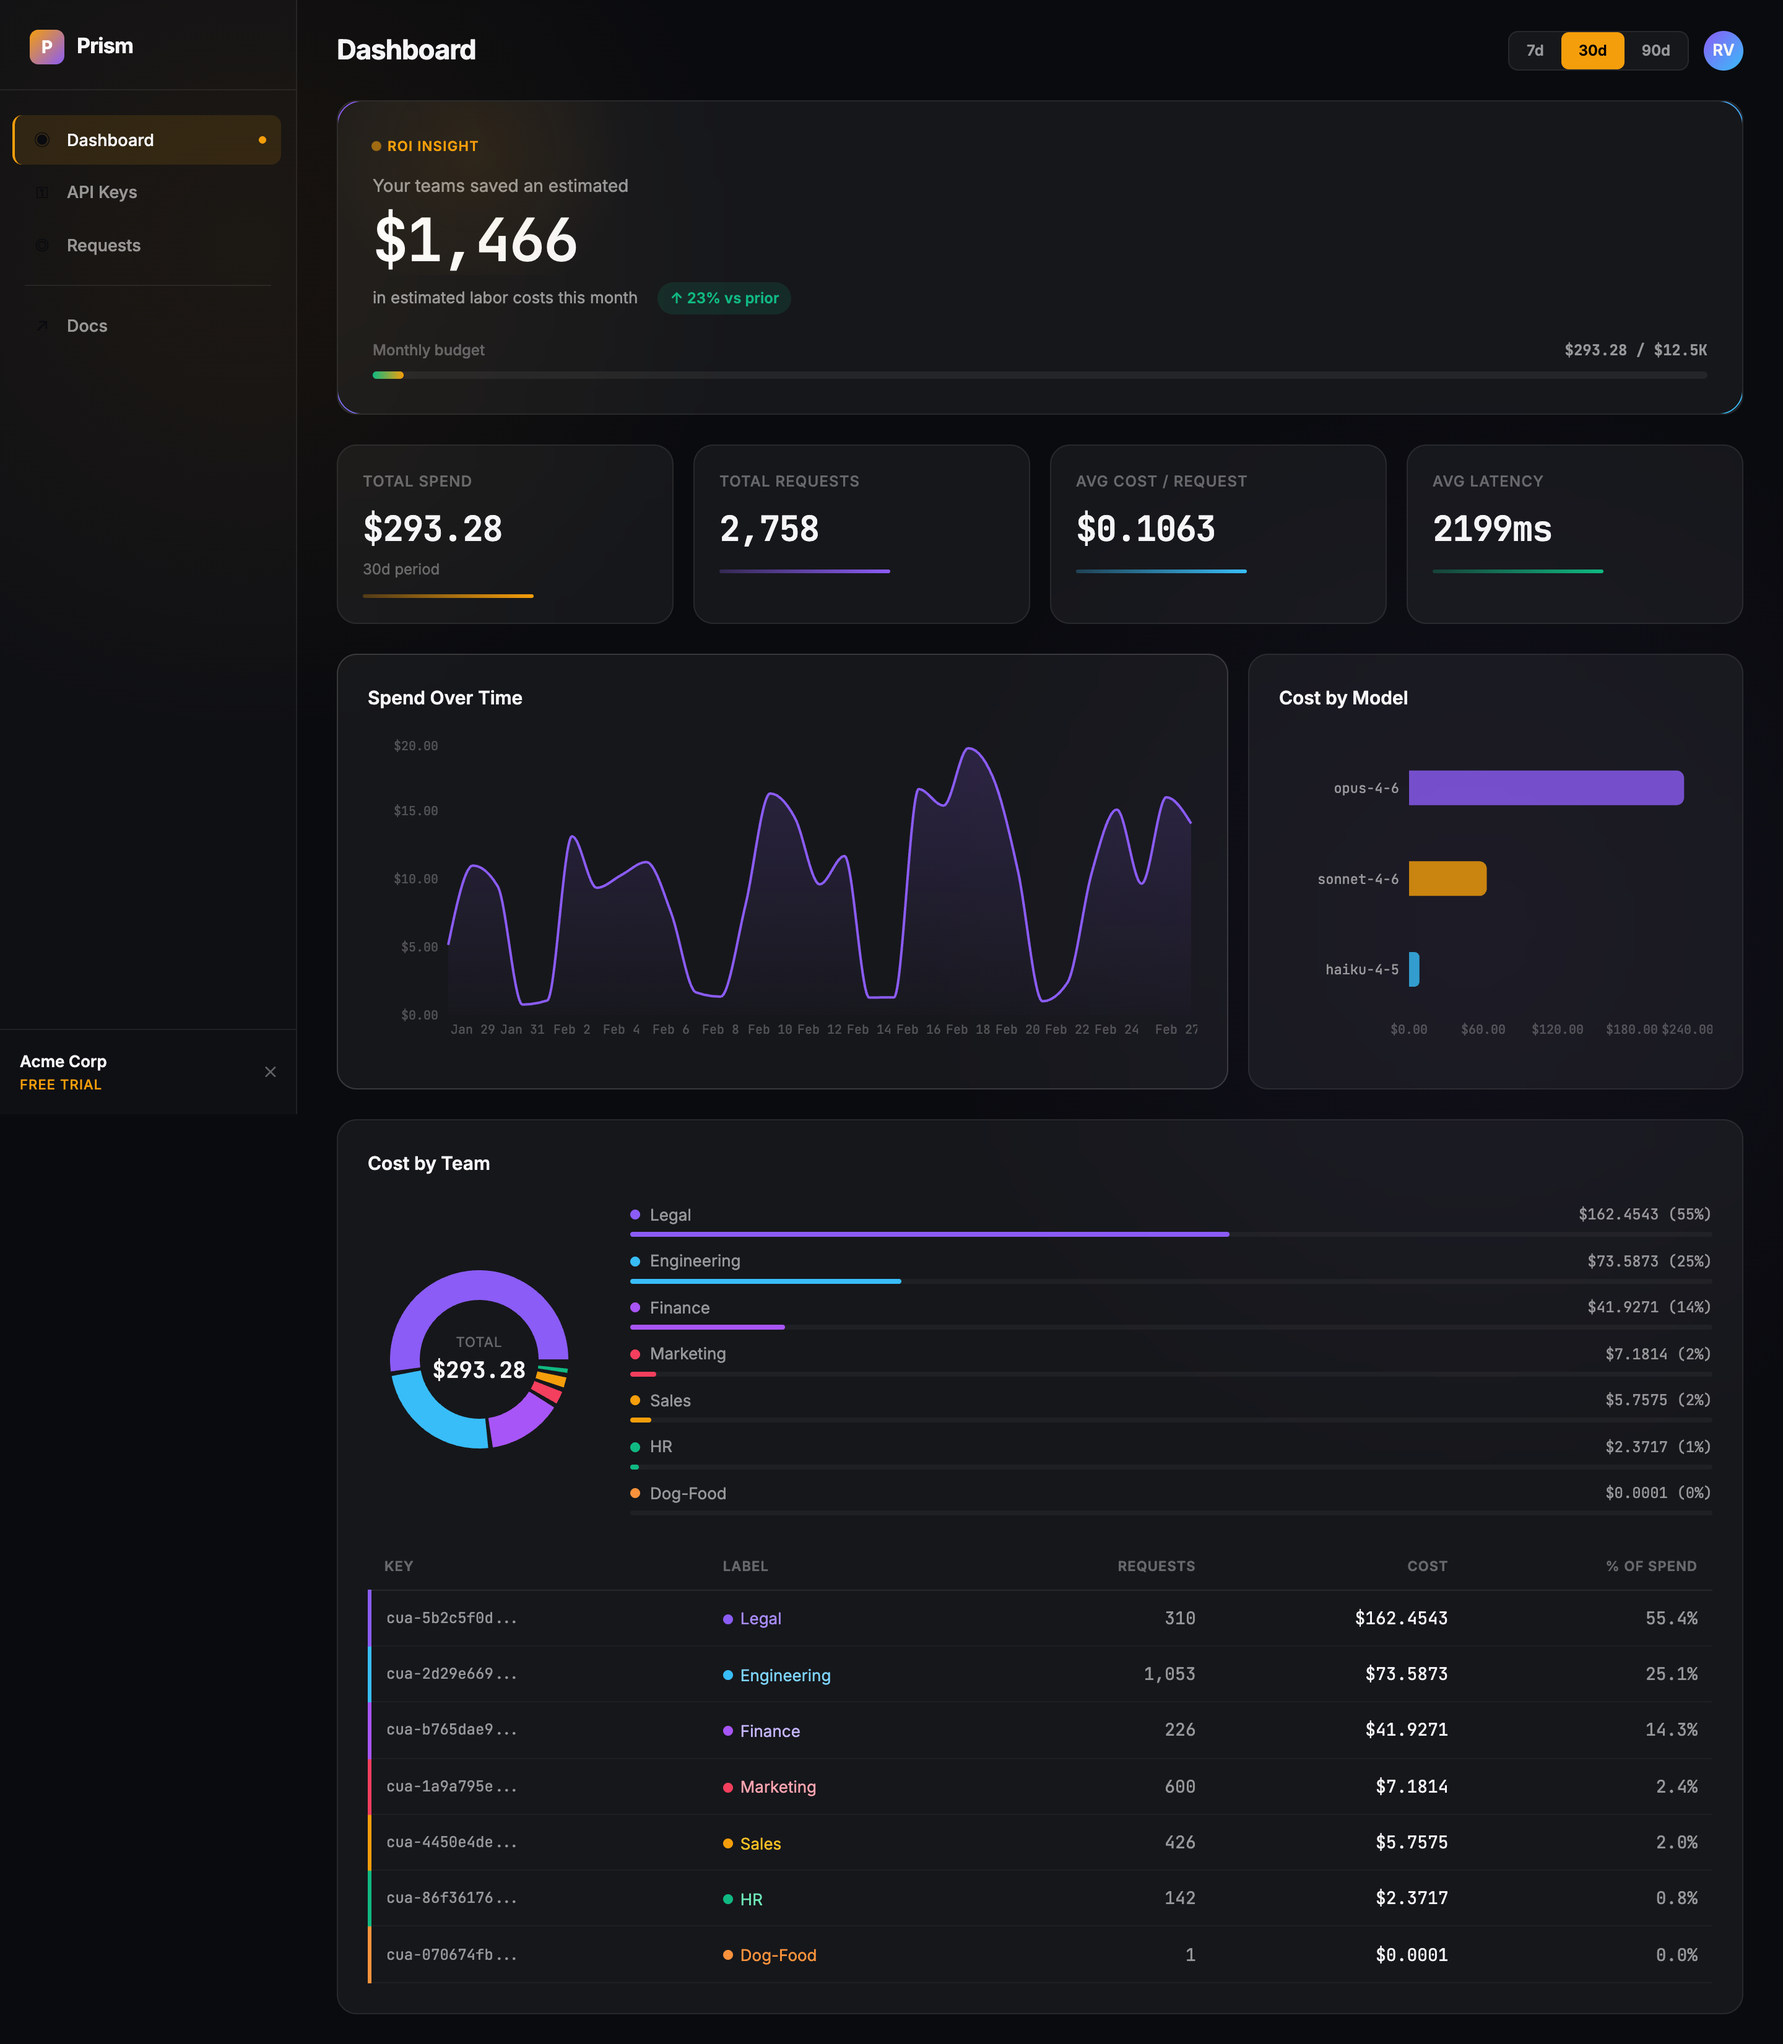
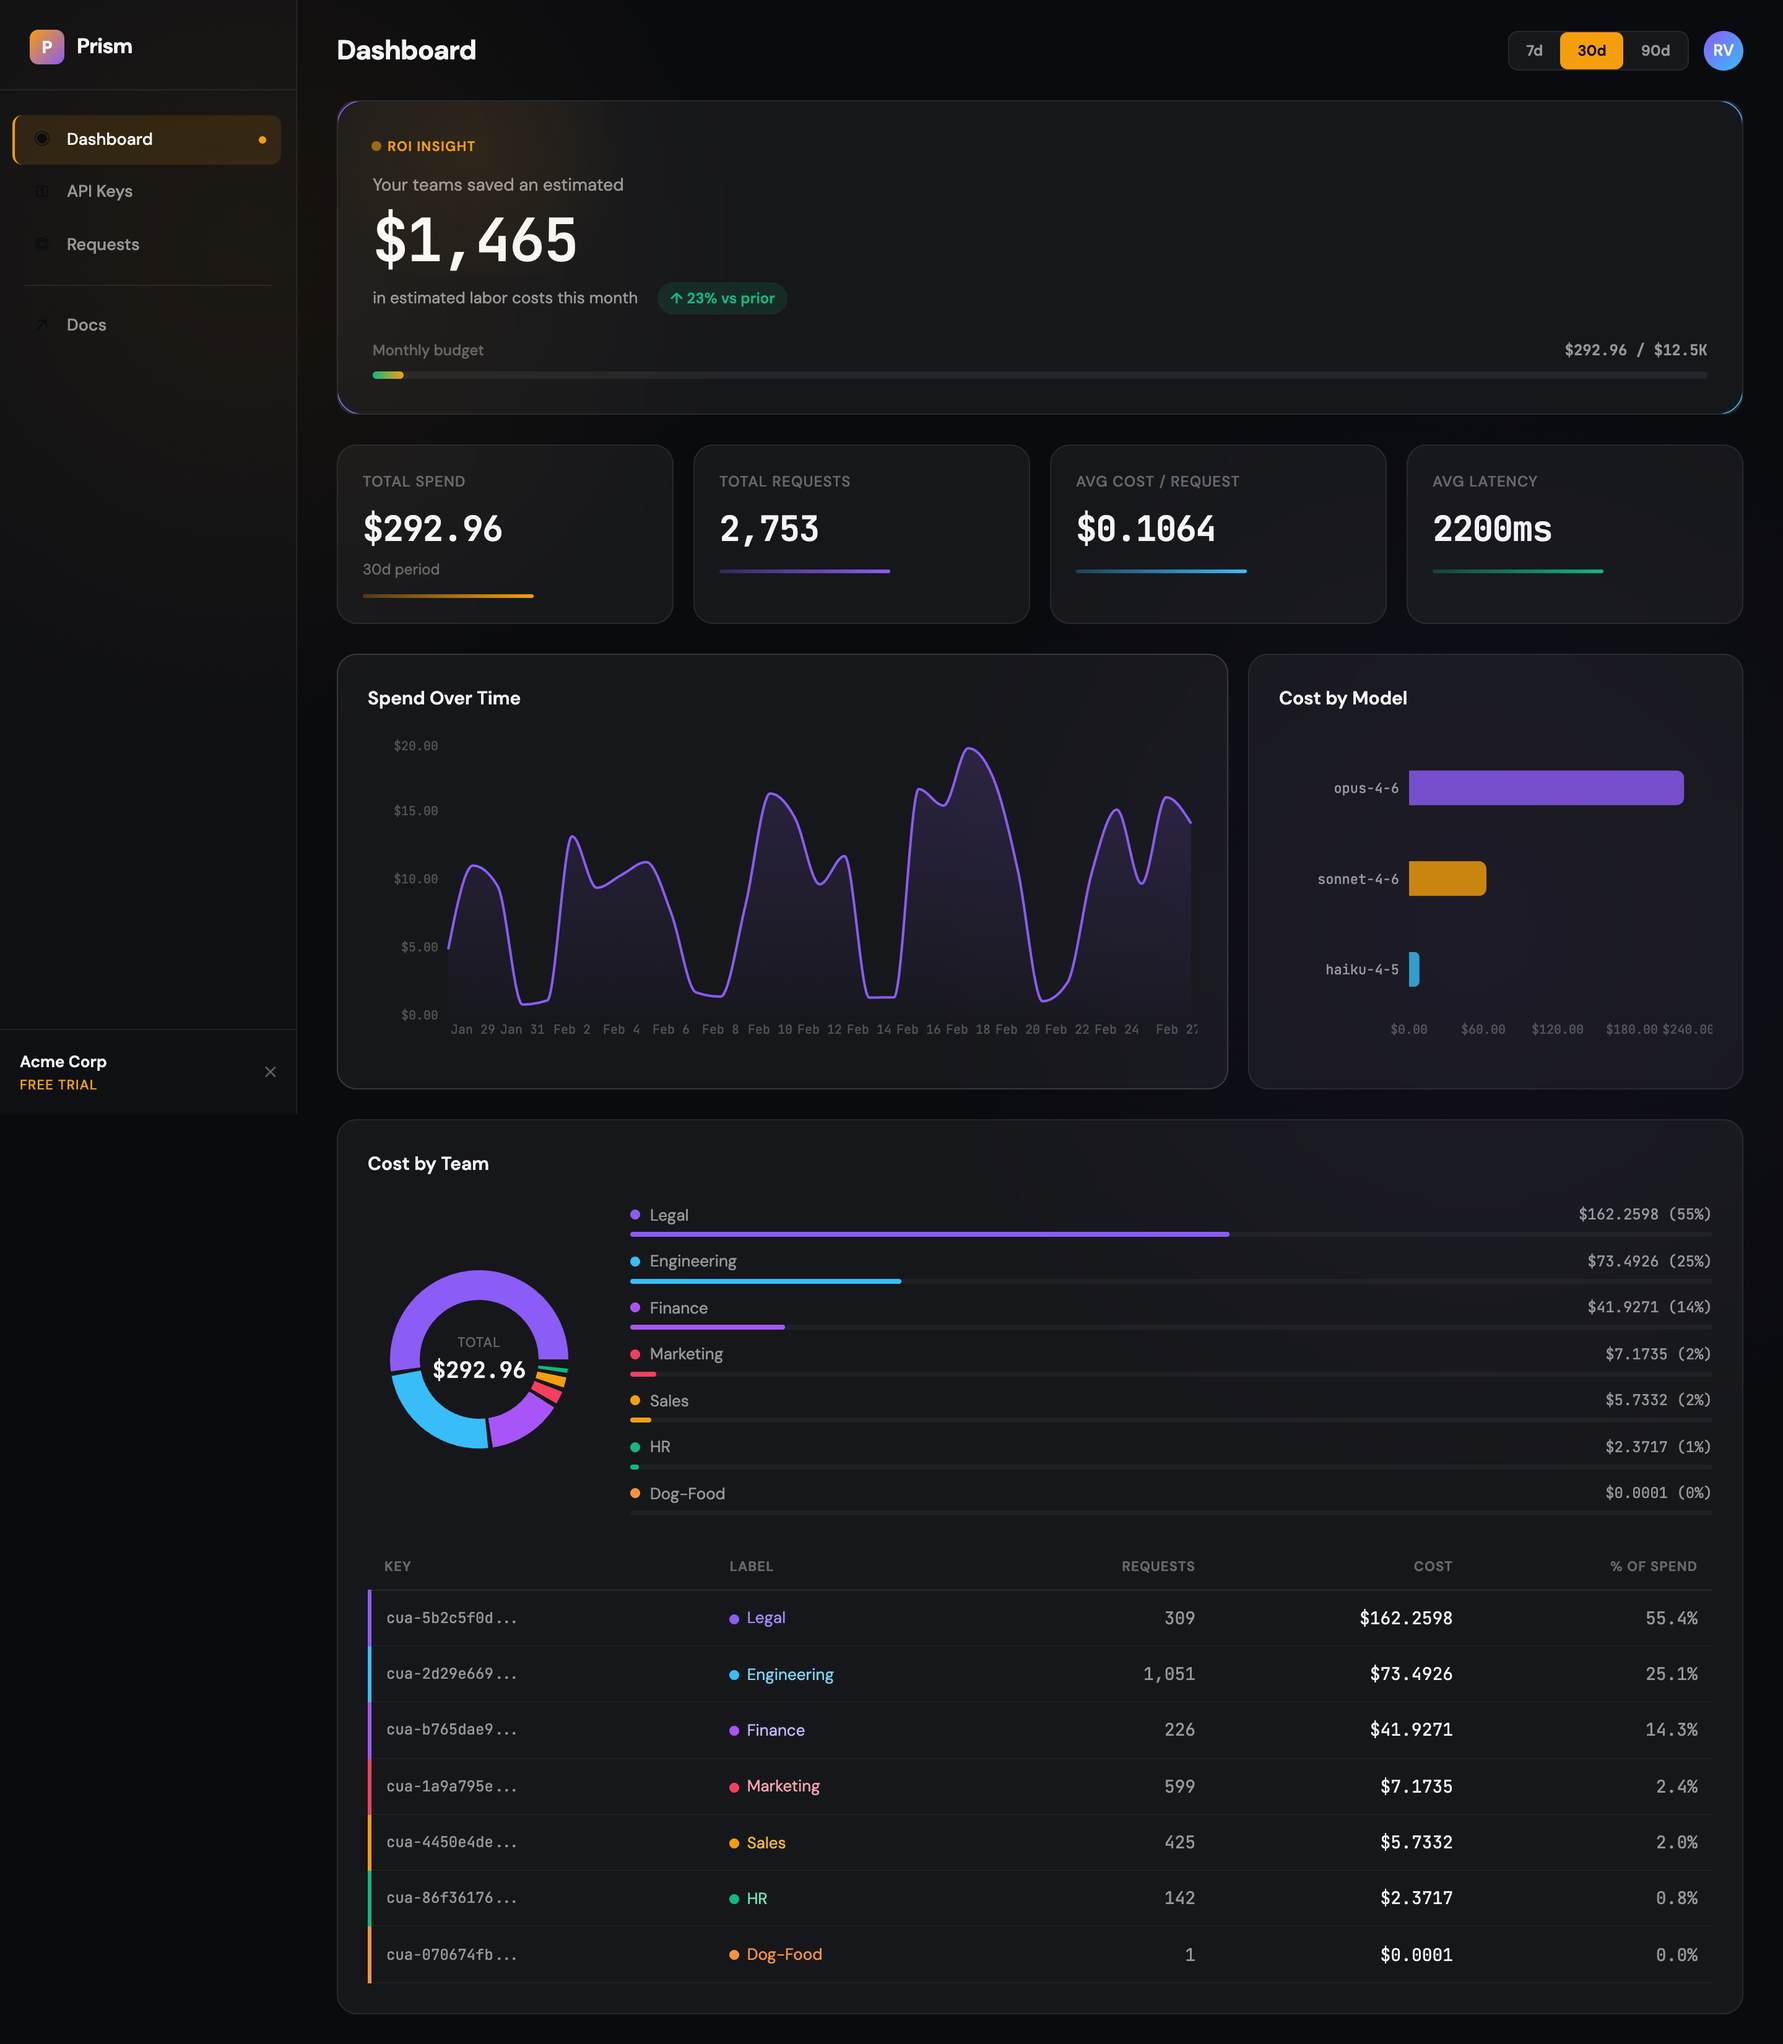
Switch body font from Inter to DM Sans for warmer Claude-style feel
DM Sans has rounder, softer letterforms that better match the Claude
aesthetic. JetBrains Mono retained for monospace numbers and code.
Screenshot updated with new font.

diff --git a/frontend/index.html b/frontend/index.html
@@ -6,7 +6,7 @@
     <meta name="viewport" content="width=device-width, initial-scale=1.0" />
     <link rel="preconnect" href="https://fonts.googleapis.com" />
     <link rel="preconnect" href="https://fonts.gstatic.com" crossorigin />
-    <link href="https://fonts.googleapis.com/css2?family=Inter:wght@400;500;600;700&family=JetBrains+Mono:wght@400;500;600&display=swap" rel="stylesheet" />
+    <link href="https://fonts.googleapis.com/css2?family=DM+Sans:ital,opsz,wght@0,9..40,400;0,9..40,500;0,9..40,600;0,9..40,700;1,9..40,400&family=JetBrains+Mono:wght@400;500;600&display=swap" rel="stylesheet" />
     <title>Prism — AI Cost & Usage Analytics</title>
   </head>
   <body>

diff --git a/frontend/src/index.css b/frontend/src/index.css
@@ -17,7 +17,7 @@
 *, *::before, *::after { box-sizing: border-box; }
 
 body {
-  font-family: 'Inter', -apple-system, BlinkMacSystemFont, sans-serif;
+  font-family: 'DM Sans', -apple-system, BlinkMacSystemFont, sans-serif;
   background: #0A0B0F;
   color: #F5F5F7;
   min-height: 100vh;
